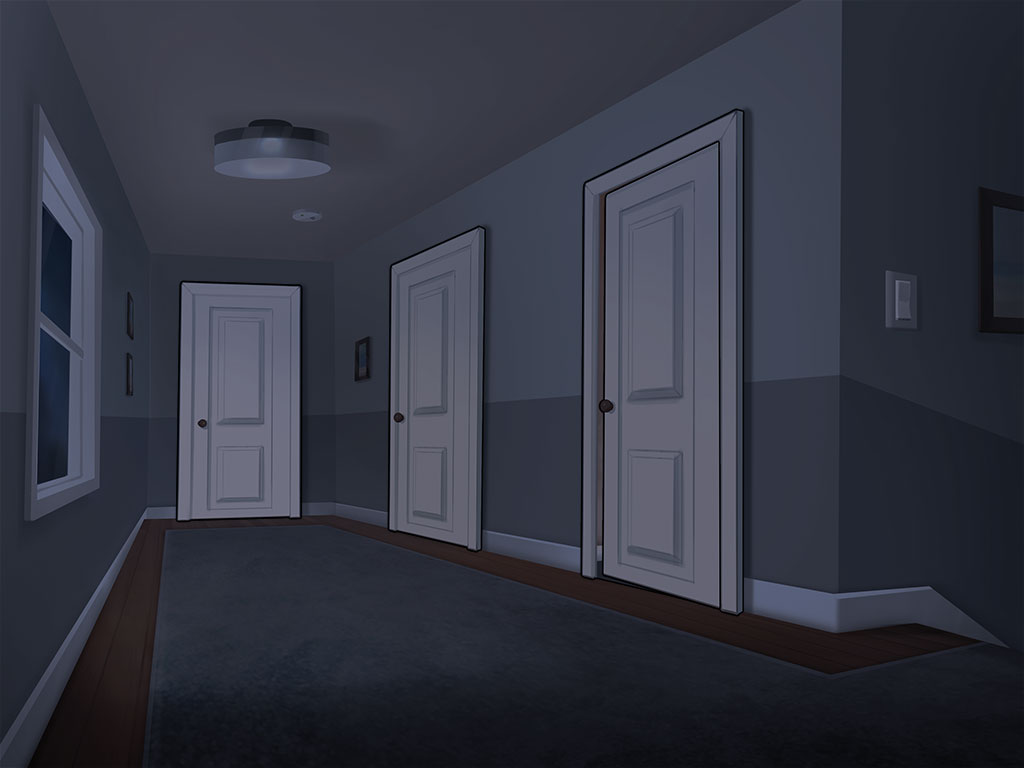
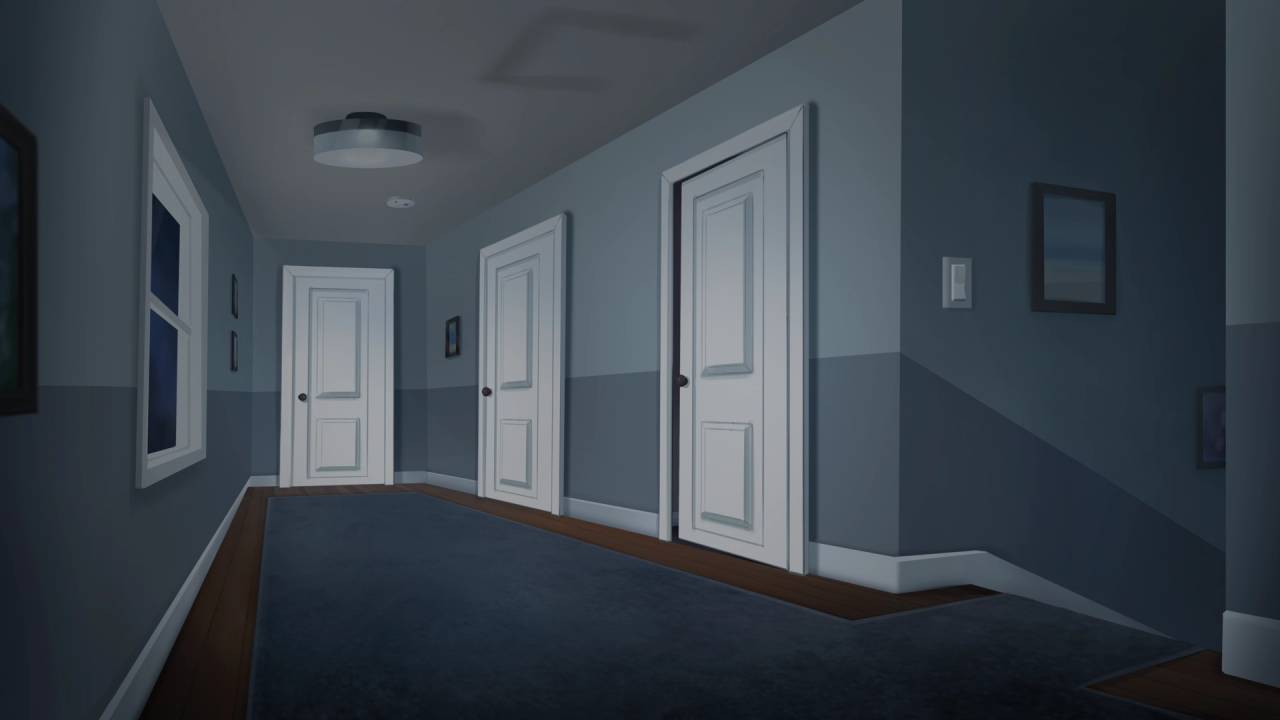
QUALITY UPDATE [01/11/2025]
- Updated Backgrounds to Match Screen Size Window
- Fixed Door Placement and Corrected TOD Type
- Added ShowSplashScreen() to show the Splash Screen or not
- Removed [Foyer Location and Kitchen Location
- Removed [Blur Images as We Don't Need Them Anymore]
- Removed [Bed Image Since We Are Using New NAVI UI System]
- Removed [Entire Event System Since We Will Be Creating a New Event System Soon]
- Crushed Some Bugs
- Added Quality Updates

diff --git a/game/python-packages/core/logger/logger.py b/game/python-packages/core/logger/logger.py
@@ -1,3 +1,8 @@
+"""
+Enhanced logging system for the core package.
+Extends Ren'Py's logging capabilities with additional features.
+"""
+
 import os
 import datetime
 import renpy
@@ -39,3 +44,55 @@ class CoreLogger:
         except Exception as e:
             self._write(f"Failed to initialize logging system: {str(e)}")
             return False
+
+    def _write(self, level, category, message):
+        try:
+            timestamp = datetime.datetime.now().strftime('%Y-%m-%d %H:%M:%S')
+            formatted = f"[{timestamp}] [{level}] [{category}] [{message}]"
+
+            if level == "DEBUG" and not self.debug_mode:
+                return
+            
+            if level == "INFO" and not self.debug_mode:
+                self._write("DEBUG", "CoreLogger", f"INFO message suppressed: {message}")
+                return
+
+            if self.log_file and not self.log_file.closed:
+                self.log_file.write(formatted + '\n')
+                self.log_file.flush()
+
+            if self.console_output:
+                print(formatted)
+        except Exception as e:
+            print(f"Logging Error: {str(e)}")
+
+    def info(self, category, message):
+        if not self.debug_mode:
+            self._write("DEBUG", "CoreLogger", f"INFO message suppressed: {message}")
+        if self.debug_mode:
+            self._write("INFO", category, str(message))
+
+    def warning(self, category, message):
+        if self.log_level <= self.WARNING:
+            self._write("WARNING", category, str(message))
+
+    def error(self, category, message):
+        self._write("ERROR", category, str(message))
+
+    def set_level(self, level):
+        if level in [self.ERROR, self.WARNING, self.INFO]:
+            self.log_level = level
+            self.info("CoreLogger", f"Log Level Set To {level}")
+
+    def set_debug_mode(self, enabled):
+        self.debug_mode = enabled
+        renpy.config.developer = enabled
+
+        self.info("CoreLogger", f"DEBUG MODE {'enabled' if enabled else 'disabled'}")
+
+    def __del__(self):
+        if self.log_file and not self.log_file.closed:
+            self.log_file.close()
+
+
+core_logger = CoreLogger()

diff --git a/game/python-packages/core/__init__.py b/game/python-packages/core/__init__.py
@@ -1,0 +1,5 @@
+try:
+    import renpy
+except ImportError:
+    raise ImportError("This package requires Ren'Py to run")
+
